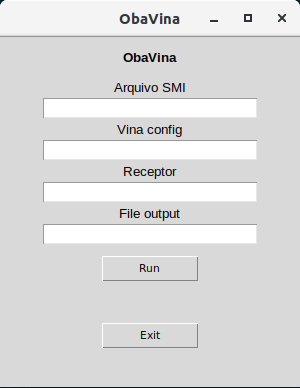
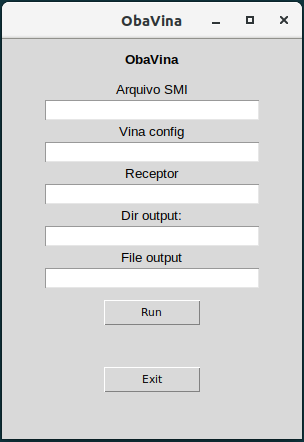
telas

Changed region(s): [[0.12, 0.1237, 0.87, 0.7423], [0.0, 0.0, 1.0, 1.0], [0.33, 0.8041, 0.66, 0.8969]]

diff --git a/graphic_obavina.py b/graphic_obavina.py
@@ -30,6 +30,11 @@ class Application:
         self.receptor_conteiner["padx"] = 20
         self.receptor_conteiner.pack()
 
+        # Conteiner para pasta dos arquivos gerados
+        self.output_conteiner = Frame(master)
+        self.output_conteiner["padx"] = 20
+        self.output_conteiner.pack()
+
         # Nome do campo do arquivo de saida
         self.quarto_container = Frame(master)
         self.quarto_container["padx"] = 20
@@ -77,6 +82,16 @@ class Application:
         self.name_file_receptor["font"] = self.fonte_padrao
         self.name_file_receptor.pack(side=LEFT)
 
+        # Nome da pasta de output
+        self.name_dir = Label(self.output_conteiner, text="Dir output:", font=self.fonte_padrao)
+        self.name_dir.pack(side=TOP)
+        # Entrada do arquivo receptor
+        self.name_dir_output = Entry(self.output_conteiner)
+        self.name_dir_output["width"] = 30
+        self.name_dir_output["font"] = self.fonte_padrao
+        self.name_dir_output.pack(side=LEFT)
+
+
         # Nome do arquivo de saida
         self.name_out = Label(self.quarto_container, text="File output", font=self.fonte_padrao)
         self.name_out.pack(side=TOP)
@@ -113,49 +128,60 @@ class Application:
 
     def run(self):
 
-
         def vina_col(file_vina):
             arquivo = open(file_vina)
             for line in arquivo:
                 if line.startswith('REMARK VINA RESULT:'):
                     vina = line.split()
-                    print(vina)
                     return vina[3]
+
+        def file_lines(file_n_lines):
+            n = 1
+            for linha in input_file:
+                n+=1
+            return n
+
+        def check_output_dir(dir_name):
+            if dir_name is None:
+                dir_name = "output"
+            os.mkdir(dir_name)
+            return dir_name + "/"
 
 
         name_file = self.name_file_smi.get()
         vina_file = self.name_file_vina.get()
         receptor_file = self.name_file_receptor.get()
         out_file = self.name_file_out.get()
+        dir_output = self.name_dir_output.get()
 
         input_file = open(name_file, "r")
         output_file = open(out_file, "w")
 
         os.system("rm " + str(output_file))
-        #n = obter_n_linhas(input_file)
-        n = 1
-        for linha in input_file:
-            n+=1
-            
+        
+        n = file_lines(input_file)
+        output = check_output_dir(dir_output)
+
+
         for i in range(1, n):
             molecula = str(i)
-            os.system("babel -ismi " + name_file + " -omol2 " + molecula + ".mol2 --gen3D -f " + molecula + " -l " + molecula)
-            os.system("obabel " + molecula + ".mol2 -O " + molecula + ".pdbqt")
-            os.system("vina --config " + vina_file + " --receptor " + receptor_file + " --ligand " + molecula + ".pdbqt " + " --out " + molecula + "_docked.pdbqt")
+            os.system("babel -ismi " + name_file + " -omol2 " + output + molecula + ".mol2 --gen3D -f " + output + molecula + " -l " + output + molecula)
+            os.system("obabel " + output + molecula + ".mol2 -O " + output + molecula + ".pdbqt")
+            os.system("vina --config " + vina_file + " --receptor " + receptor_file + " --ligand " + output + molecula + ".pdbqt " + " --out " + output + molecula + "_docked.pdbqt")
 
             # Ver saida do arquivo do vina para pegar a segunda coluna e armazenar na variavel energia
-            energia = vina_col(molecula + "_docked.pdbqt")
+            energia = vina_col(output + molecula + "_docked.pdbqt")
             output_file.write("O score de energia da molécula {} foi de {}\n".format(molecula, energia))
         
-        # output_file.close()
-        # input_file.close()
+        output_file.close()
+        input_file.close()
         
 
 root = Tk()
 root.title("ObaVina")
 screen_width = root.winfo_screenwidth()
 screen_height = root.winfo_screenheight()
-center = "300x350+"+str(screen_width/2-175)+"+"+str(screen_height/2-150)
+center = "300x400+"+str(screen_width/2-150)+"+"+str(screen_height/2-150)
 root.geometry(center)
 Application(root)
 root.mainloop()

diff --git a/readme.md b/readme.md
@@ -2,6 +2,10 @@
 
 *O programa ainda esta sendo desenvolvido, por isso contamos com a colaboração do usuário*
 
+## Importante
+O programa até o momento para funcionar corretamente, deve esta no mesmo diretorio que os arquivos de chimera.
+
+
 # Dependencias
 
 ## Pacotes necessarios para execução
@@ -33,12 +37,11 @@ make
 make -j4
 make install
 ```
-*Para instalar o vina execute:*
 
 * [Vina](http://vina.scripps.edu/)
 	* [Download](http://vina.scripps.edu/download/autodock_vina_1_1_2_linux_x86.tgz)
 
-Para instalar o vina execute:
+*Para instalar o vina execute:*
 
 ```
 sudo apt install autodock-vina
@@ -66,6 +69,8 @@ Exemplo:
 user$ python graphic_obavina.py
 ```
 
+Após informar todos os arquivos clique no botão run e aguarde o processamento, quando todos os dados forem
+processados o botão _exit_ ficara disponivel.
 
 ## O programa apresenta um interface simples e pratica para a utilização
 
